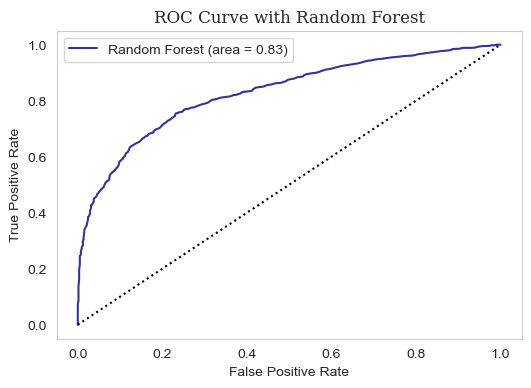
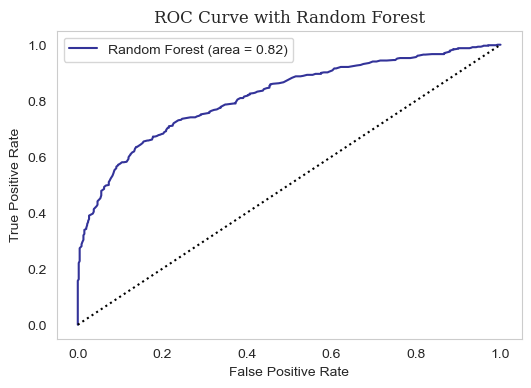
project update

diff --git a/Projects_FINDA/Result.md b/Projects_FINDA/Result.md
@@ -18,12 +18,12 @@ ROC-AUC score: 74.725845%
 ```text
               precision    recall  f1-score   support
 
-           0       0.73      0.75      0.74      1244
-           1       0.79      0.77      0.78      1515
+           0       0.71      0.66      0.68       450
+           1       0.74      0.78      0.76       567
 
-    accuracy                           0.76      2759
-   macro avg       0.76      0.76      0.76      2759
-weighted avg       0.76      0.76      0.76      2759
+    accuracy                           0.73      1017
+   macro avg       0.72      0.72      0.72      1017
+weighted avg       0.73      0.73      0.73      1017
 ```
 
 ![output.png](output.png)
